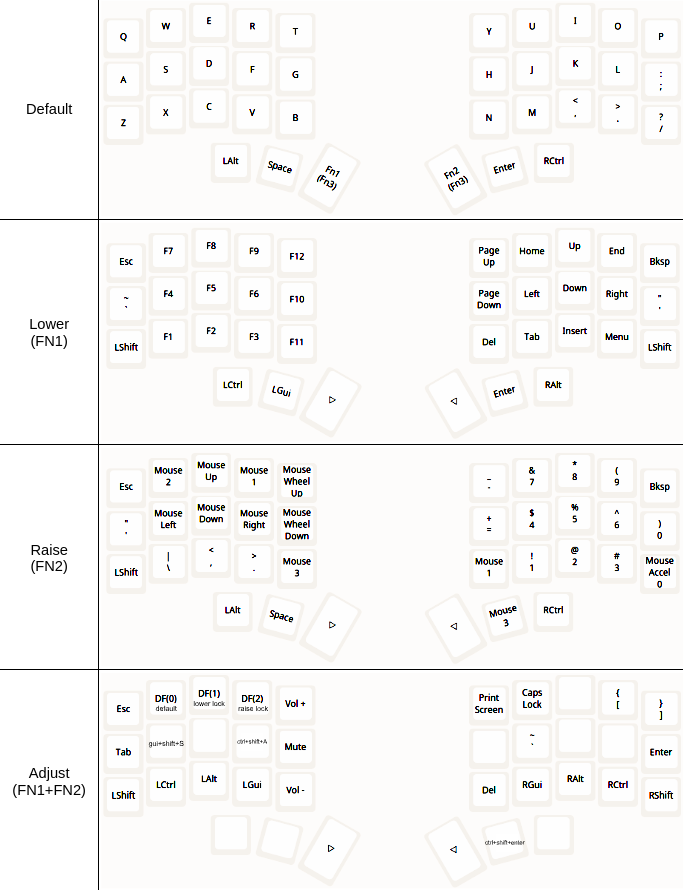
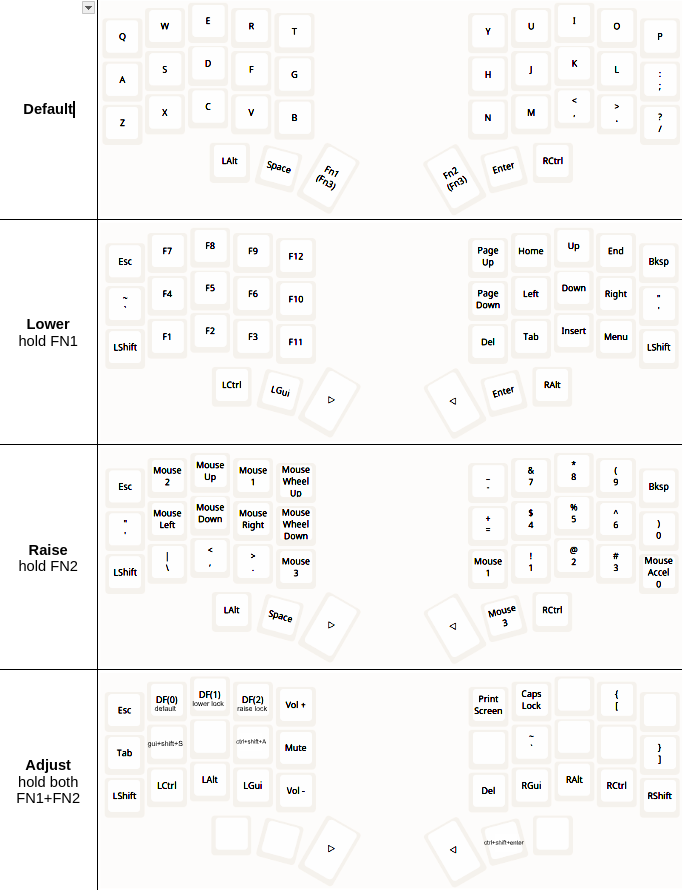
Move square and curly brackets to match parentheses

diff --git a/keymap.c b/keymap.c
@@ -60,8 +60,8 @@ const uint16_t PROGMEM keymaps[][MATRIX_ROWS][MATRIX_COLS] = {
     // ADJUST (HOLD BOTH LOWR AND UPPR).
     // s, d, f, h, n, k and l are reserved personal macros (those hand-twisting combinations like WIN+SHIFT+S)
     [3] = LAYOUT_split_3x5_3(
-        KC_ESC,  DF(0),   DF(1),   DF(2),   KC_VOLU,                             KC_PSCR,  KC_CAPS, XXXXXXX, KC_LBRC,  KC_RBRC,
-        KC_TAB,MY_MACRO_S,XXXXXXX,MY_MACRO_CSA,KC_MUTE,                          XXXXXXX,  KC_GRAVE,XXXXXXX, XXXXXXX,  KC_ENT,
+        KC_ESC,  DF(0),   DF(1),   DF(2),   KC_VOLU,                             KC_PSCR,  KC_CAPS, XXXXXXX, KC_LBRC,  XXXXXXX,
+        KC_TAB,MY_MACRO_S,XXXXXXX,MY_MACRO_CSA,KC_MUTE,                          XXXXXXX,  KC_GRAVE,XXXXXXX, XXXXXXX,  KC_RBRC,
         KC_LSFT, KC_LCTL, KC_LALT, KC_LGUI, KC_VOLD,                             KC_DEL,   KC_RGUI, KC_RALT, KC_RCTL,  KC_RSFT,
                                 XXXXXXX, XXXXXXX, _______,           _______,  MY_MACRO_EN,  XXXXXXX
     )

diff --git a/config.h b/config.h
@@ -39,9 +39,9 @@ along with this program.  If not, see <http://www.gnu.org/licenses/>.
 
 /* Select hand configuration */
 
- #define MASTER_LEFT
+#define MASTER_LEFT
 //#define MASTER_RIGHT
-// #define EE_HANDS
+//#define EE_HANDS
 
 #define USE_SERIAL_PD2
 #ifdef RGBLIGHT_ENABLE

diff --git a/my-cheatsheet.md b/my-cheatsheet.md
@@ -11,3 +11,65 @@ sudo cp /home/myuser/vial-qmk/.build/crkbd_rev1_vial_promicro_rp2040.uf2 /run/me
 sudo umount /dev/sda1
 sudo rmdir /run/media/myuser/promicro
 ```
+
+Somehow built in ee hands flashing does not work for me, so I have set up some sh files:
+Please note these have hardcoded paths, and you'd need to put your own.
+
+Build
+```shell
+#!/bin/sh
+cd /home/parents/vial-qmk/
+make clean
+make crkbd:vial CONVERT_TO=promicro_rp2040
+sudo mv /home/parents/vial-qmk/.build/crkbd_rev1_vial_promicro_rp2040.uf2 /home/parents/vial-qmk/.build/crkbd_rev1_vial_promicro_rp2040_left.uf2
+sed -i -e 's/#define MASTER_LEFT/\/\/#define MASTER_LEFT/g' /home/parents/vial-qmk/keyboards/crkbd/keymaps/vial/config.h
+sed -i -e 's/\/\/#define MASTER_RIGHT/#define MASTER_RIGHT/g' /home/parents/vial-qmk/keyboards/crkbd/keymaps/vial/config.h
+make crkbd:vial CONVERT_TO=promicro_rp2040
+sudo mv /home/parents/vial-qmk/.build/crkbd_rev1_vial_promicro_rp2040.uf2 /home/parents/vial-qmk/.build/crkbd_rev1_vial_promicro_rp2040_right.uf2
+sed -i -e 's/#define MASTER_RIGHT/\/\/#define MASTER_RIGHT/g' /home/parents/vial-qmk/keyboards/crkbd/keymaps/vial/config.h
+sed -i -e 's/\/\/#define MASTER_LEFT/#define MASTER_LEFT/g' /home/parents/vial-qmk/keyboards/crkbd/keymaps/vial/config.h
+```
+
+Flash
+```shell
+#!/bin/sh
+## Assuming that left is already plugged in at this point
+echo "Flashing left..."
+sudo mkdir -p /run/media/parents/promicro
+sudo mount /dev/sda1 /run/media/parents/promicro
+sudo cp /home/parents/vial-qmk/.build/crkbd_rev1_vial_promicro_rp2040_left.uf2 /run/media/parents/promicro
+echo "Wait for left to re-connect and unplug it."
+while true; do
+    read -p "Ready to unmount?" yn
+    case $yn in
+        [Yy]* ) break;;
+        [Nn]* ) exit;;
+        * ) echo "Please answer yes or no.";;
+    esac
+done
+sudo umount /dev/sda1
+sudo rmdir /run/media/parents/promicro
+echo "Please plug right and make sure it's detected."
+while true; do
+    read -p "Ready to mount?" yn
+    case $yn in
+        [Yy]* ) break;;
+        [Nn]* ) exit;;
+        * ) echo "Please answer yes or no.";;
+    esac
+done
+sudo mkdir -p /run/media/parents/promicro
+sudo mount /dev/sda1 /run/media/parents/promicro
+sudo cp /home/parents/vial-qmk/.build/crkbd_rev1_vial_promicro_rp2040_right.uf2 /run/media/parents/promicro
+echo "Wait for right to re-connect and unplug it."
+while true; do
+    read -p "Ready to unmount?" yn
+    case $yn in
+        [Yy]* ) break;;
+        [Nn]* ) exit;;
+        * ) echo "Please answer yes or no.";;
+    esac
+done
+sudo umount /dev/sda1
+sudo rmdir /run/media/parents/promicro
+```
